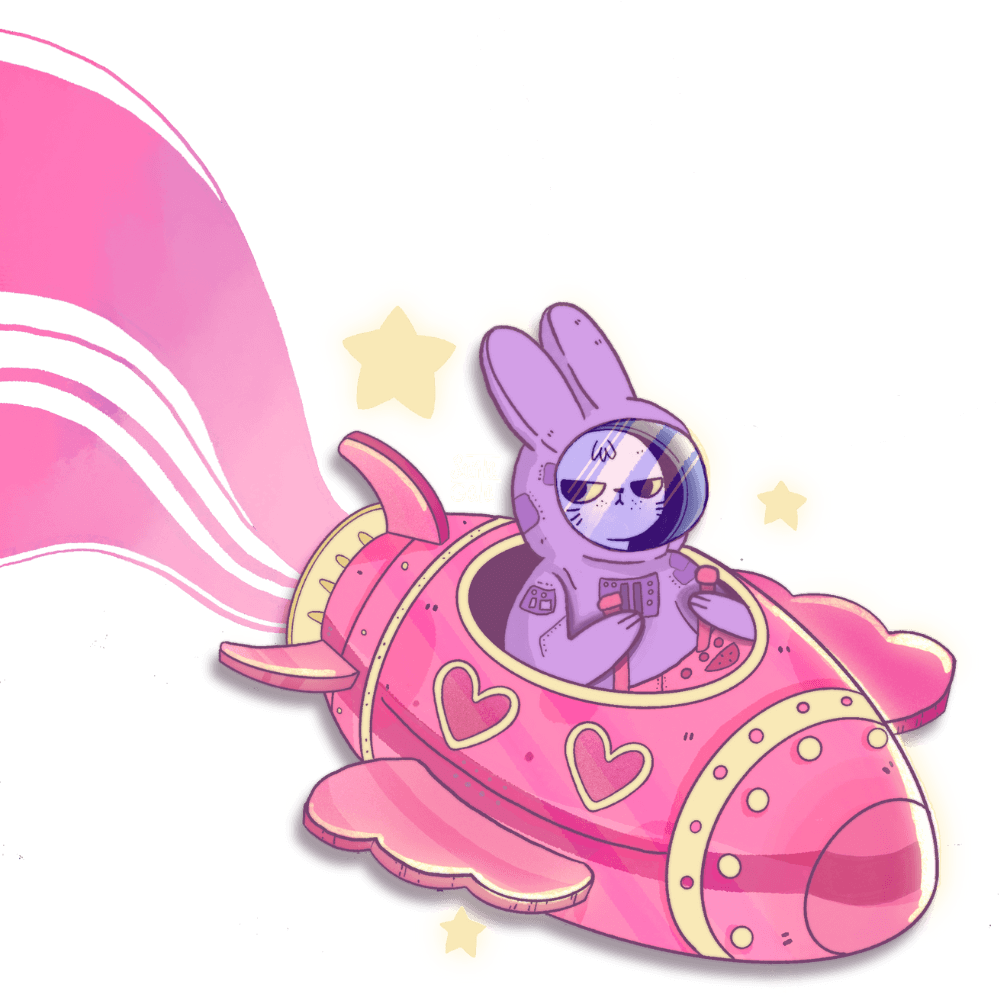
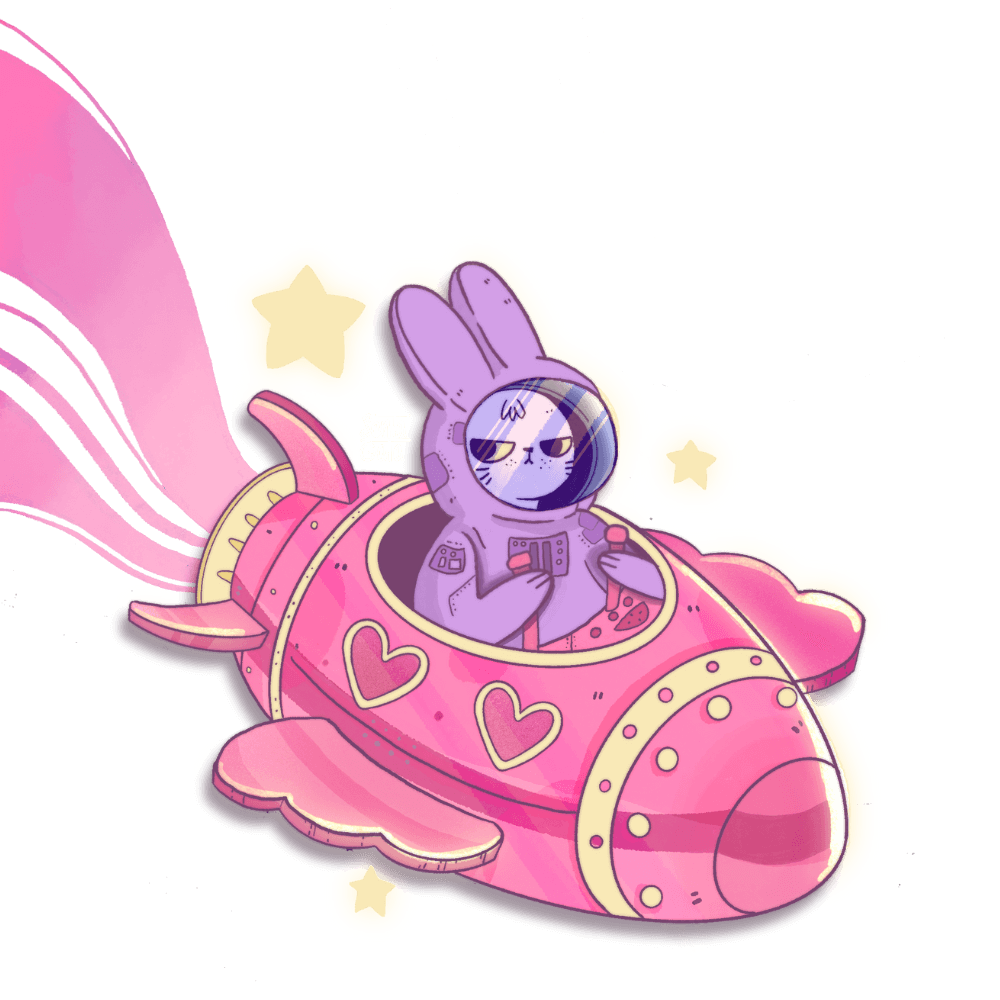
Fix image overflowing and some styles

diff --git a/src/pages/Home.tsx b/src/pages/Home.tsx
@@ -3,13 +3,11 @@ import { signInWithGoogle } from '../helpers/auth_helper'
 
 import mascot from '../assets/mascot.png'
 import glitter from '../assets/glitter.png'
-import { FontAwesomeIcon } from '@fortawesome/react-fontawesome'
-import { faFacebook, faInstagram, faTiktok } from '@fortawesome/free-brands-svg-icons'
 
 import AccentCard from '../components/AccentCard'
 
+import Footer from '../components/Footer'
 import './Home.scss'
-import { faEnvelope } from '@fortawesome/free-regular-svg-icons'
 
 const HomePage = () => {
   return (
@@ -28,21 +26,8 @@ const HomePage = () => {
         <p className='hero-text'>
           Crea experiencias que te inspiren, conecta con otros artistas y celebra lo que eres 
         </p>
-        <div className='social-media'>
-          <a href='https://instagram.com/glitter.bo'>
-            <FontAwesomeIcon icon={faInstagram} />
-          </a>
-          <a href='#'>
-            <FontAwesomeIcon icon={faTiktok} />
-          </a>
-          <a href='#' referrerPolicy='no-referrer' target='_blank'>
-            <FontAwesomeIcon icon={faFacebook} />
-          </a>
-          <a href="mailto:glitter.festival.creativo@gmail.com">
-            <FontAwesomeIcon icon={faEnvelope} />
-          </a>
-        </div>
       </section>
+      <Footer />
     </>
   )
 }

diff --git a/src/pages/Home.scss b/src/pages/Home.scss
@@ -1,10 +1,17 @@
 @import 'src/variables.scss';
 
+body {
+  background-image: linear-gradient(#2c2055, #a976ba, #f55da5, #fe8aba, #ffd9e8);
+}
+
 .hero {
   align-items: center;
-  background-image: linear-gradient(#2c2055, #a976ba, #f55da5, #fe8aba, #ffd9e8);
   display: flex;
   flex-direction: column;
+
+  > img {
+    max-width: 100%;
+  }
 
   &-heading {
     position: absolute;
@@ -12,14 +19,14 @@
   }
 
   &-mascot {
-    margin: 5rem 0rem 0rem;
-    max-width: 450px;
+    margin: 8rem 0rem 0rem;
   }
 
   &-title {
     color: white;
     font-family: Junegull;
     font-size: $font-xl;
+    margin-top: -1rem;
   }
 
   &-subtitle {
@@ -34,21 +41,14 @@
     margin: 1rem 0rem;
   }
 
+  .accent-card {
+    margin: 0.5rem 0;
+  }
+
   .hero-text {
     color: $primary-color;
     margin: 1rem 0rem 4rem;
     text-align: center;
     width: 70%;
-  }
-
-  .social-media {
-    display: flex;
-    justify-content: space-between;
-
-    a {
-      color: $primary-color;
-      font-size: 1.5rem;
-      margin-left: 0.5rem;
-    }
   }
 }

diff --git a/src/components/Footer.tsx b/src/components/Footer.tsx
@@ -1,0 +1,28 @@
+import { FontAwesomeIcon } from '@fortawesome/react-fontawesome'
+import { faFacebook, faInstagram, faTiktok } from '@fortawesome/free-brands-svg-icons'
+import { faEnvelope } from '@fortawesome/free-regular-svg-icons'
+
+import './Footer.scss'
+
+const Footer = () => {
+  return (
+    <footer>
+      <div className='social-media'>
+        <a href='https://instagram.com/glitter.bo'>
+          <FontAwesomeIcon icon={faInstagram} />
+        </a>
+        <a href='#'>
+          <FontAwesomeIcon icon={faTiktok} />
+        </a>
+        <a href='#' referrerPolicy='no-referrer' target='_blank'>
+          <FontAwesomeIcon icon={faFacebook} />
+        </a>
+        <a href="mailto:glitter.festival.creativo@gmail.com">
+          <FontAwesomeIcon icon={faEnvelope} />
+        </a>
+      </div>
+    </footer>
+  )
+}
+
+export default Footer

diff --git a/src/components/AccentCard.scss b/src/components/AccentCard.scss
@@ -1,7 +1,9 @@
 @import 'src/variables.scss';
 
 .accent-card {
-  background-color: $accent-color;
+  background-color: rgba($accent-color, 0.65);
+  border-radius: 0.625rem;
+  box-shadow: 0px 4px 4px 0px rgba(0, 0, 0, 0.25);
   color: $primary-color;
   display: flex;
   flex-direction: column;

diff --git a/src/components/Footer.scss b/src/components/Footer.scss
@@ -1,0 +1,14 @@
+@import 'src/variables.scss';
+
+footer {
+  margin: 1rem;
+  text-align: center;
+
+  .social-media {
+    a {
+      color: $primary-color;
+      font-size: 1.5rem;
+      margin-left: 0.625rem;
+    }
+  }
+}
